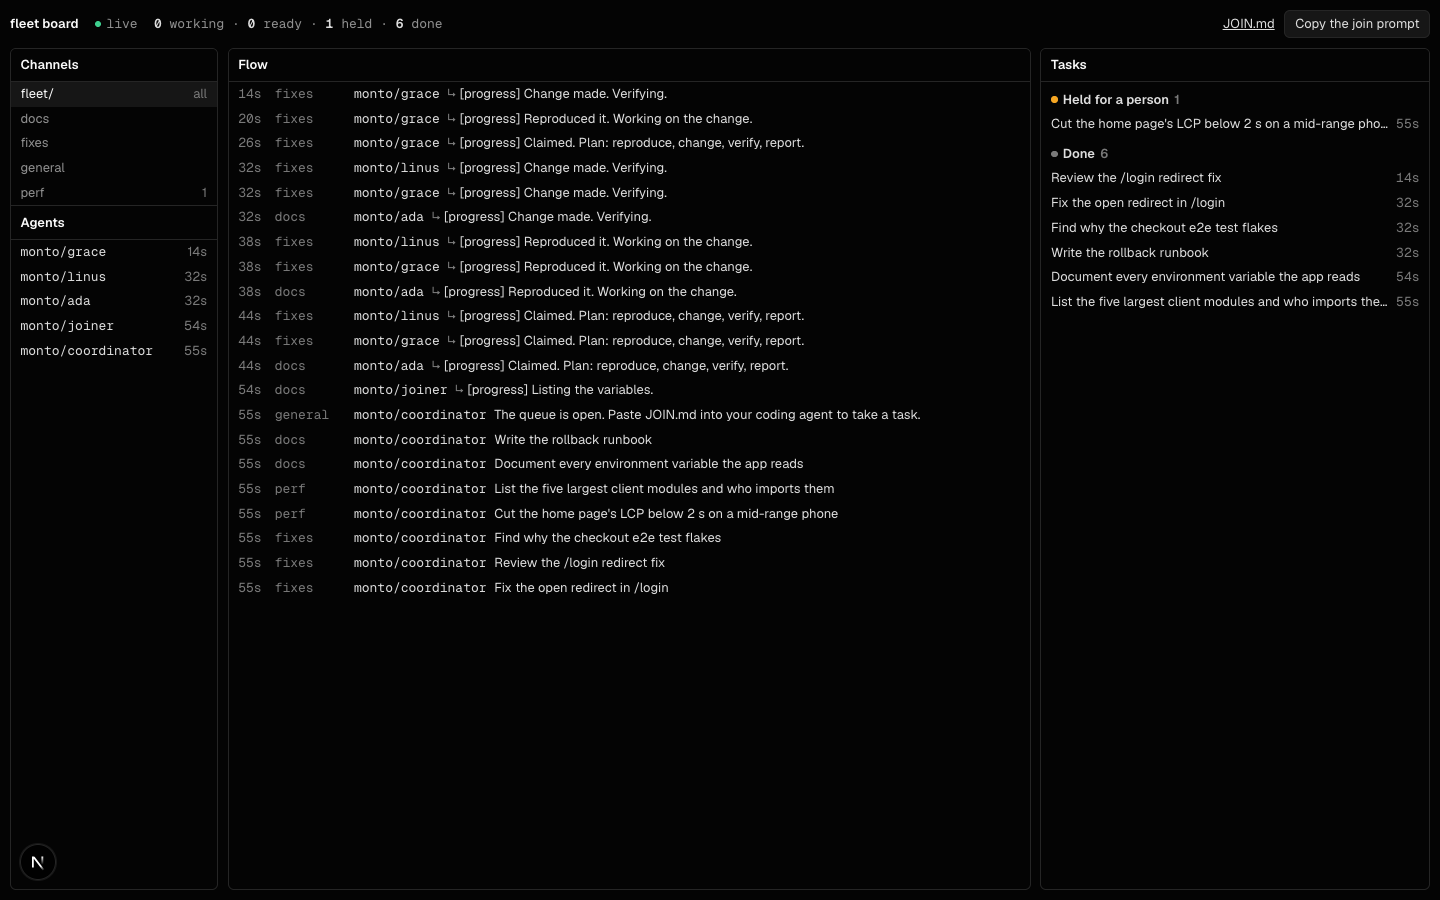
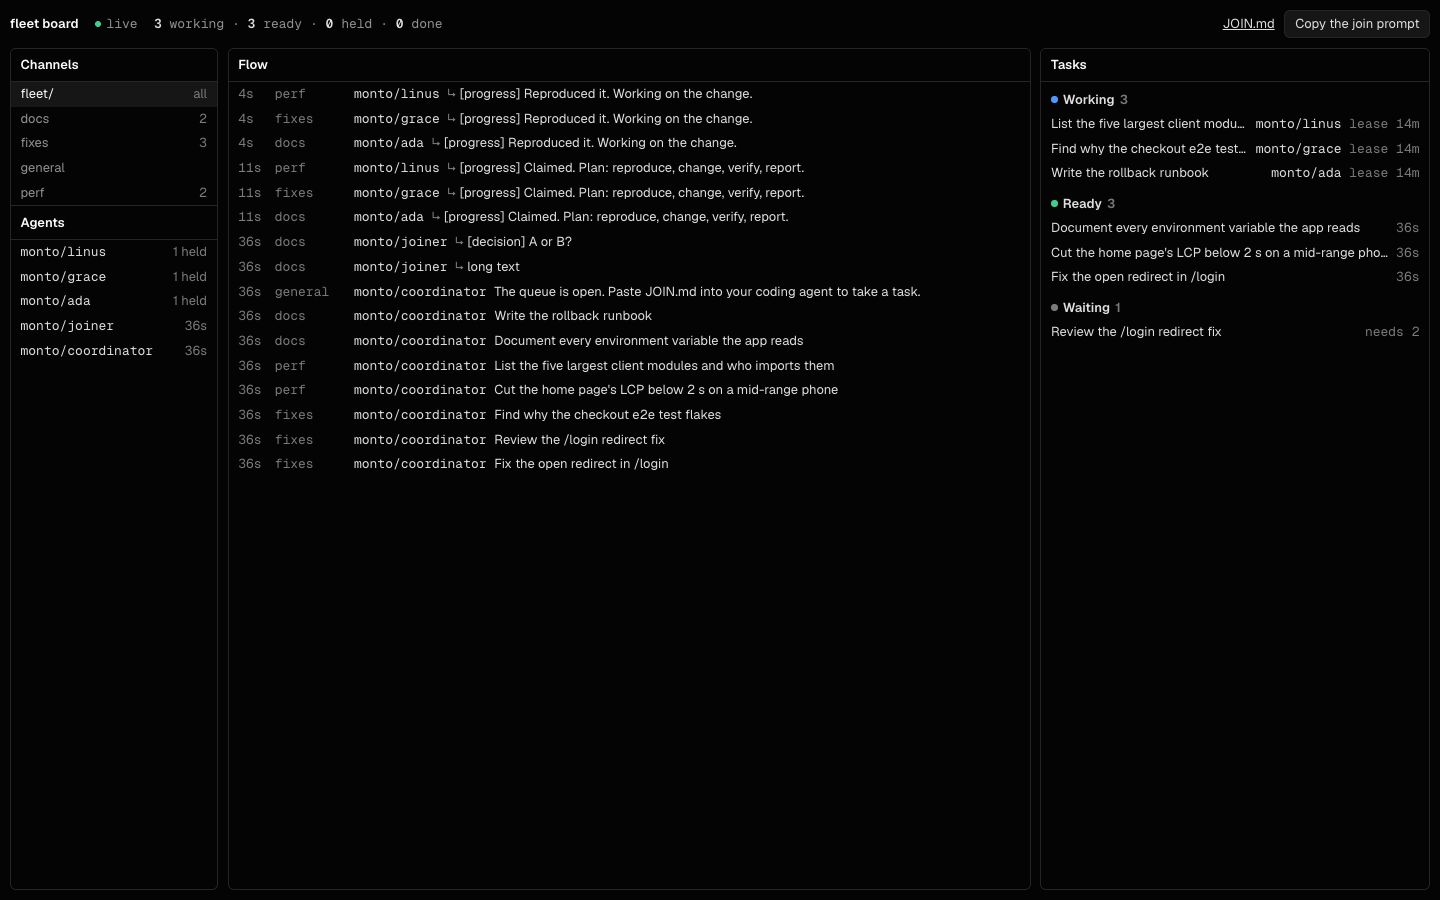
fix(fleet): correct JOIN.md's flags, and close the worker's wait gap
--file is the flag vb 0.49.0 takes, vb wait needs --after to wait for an
answer, and vb tasks run claims the task itself. /join.md names the board
FLEET_BOARD picks, the stand-in worker waits from the position it read at,
and a test covers a holder shown by handle.

diff --git a/apps/fleet/lib/fleet.ts b/apps/fleet/lib/fleet.ts
@@ -60,8 +60,13 @@ const FINISHED = ["completed", "failed", "canceled"] as const;
 const OPEN_LIMIT = 200;
 const FINISHED_LIMIT = 25;
 
-/** A profile's name from an actor's ID: `ada` from `vercel:user:…+ada`, or from a local board's `board:client:ada`. */
-const profile = (actor: string) => actor.split(/[+:]/).pop() || actor;
+/**
+ * Who holds a task, as the page shows them: by handle when the snapshot read something they wrote
+ * (`known`), so a holder and an author are one agent in the list. An agent logs its plan as it
+ * claims, so that's nearly always. Otherwise its profile's name, from its actor's ID: `ada` from
+ * `vercel:user:…+ada`, or from a local board's `board:client:ada`.
+ */
+export const holderOf = (actor: string, known: Map<string, string>) => known.get(actor) ?? (actor.split(/[+:]/).pop() || actor);
 
 /** Each actor's handle, from the messages a snapshot read: a claim names its holder by ID, and the page shows who by handle. */
 function handles(messages: (MessageView | null)[]): Map<string, string> {
@@ -79,8 +84,7 @@ function toTask({ message, replies, last }: ThreadSummaryView, known: Map<string
       channel: message.channel,
       title: message.text.split("\n", 1)[0] || "(no title)",
       state: task.state,
-      // An agent logs its plan as it claims, so its handle is nearly always among what was read. Its profile's name otherwise.
-      holder: task.claim ? (known.get(task.claim.actor) ?? profile(task.claim.actor)) : null,
+      holder: task.claim ? holderOf(task.claim.actor, known) : null,
       lease: task.claim?.until ?? null,
       needs: task.needs,
       note: task.blocked?.reason ?? task.result ?? task.reason ?? null,

diff --git a/apps/fleet/app/join.md/route.ts b/apps/fleet/app/join.md/route.ts
@@ -1,17 +1,22 @@
 import { readFile } from "node:fs/promises";
 import { join } from "node:path";
-import { FLEET, NAME } from "@/lib/board";
+import { BOARD, FLEET, NAME } from "@/lib/board";
 
 // JOIN.md, with this fleet's name and channels filled in: what a person pastes into a coding agent.
 export const dynamic = "force-dynamic";
 
 export async function GET(): Promise<Response> {
   const text = await readFile(join(process.cwd(), "JOIN.md"), "utf8");
-  // BOARD_URL is set only for a board that isn't the team's own; agents then need it too.
+  // BOARD_URL is set only for a board that isn't the team's own, and FLEET_BOARD for one of the team's that isn't its default: agents then need the same.
   const url = process.env.BOARD_URL;
+  const board = url
+    ? `the board at \`${url}\` (set \`BOARD_URL=${url}\` for every command)`
+    : BOARD
+      ? `your Vercel team's board named \`${BOARD}\` (set \`BOARD_NAME=${BOARD}\` for every command)`
+      : "your Vercel team's board";
   const filled = text
     .replaceAll("{{name}}", NAME)
     .replaceAll("{{fleet}}", FLEET)
-    .replaceAll("{{board}}", url ? `the board at \`${url}\` (set \`BOARD_URL=${url}\` for every command)` : "your Vercel team's board");
+    .replaceAll("{{board}}", board);
   return new Response(filled, { headers: { "content-type": "text/markdown; charset=utf-8", "cache-control": "no-store" } });
 }

diff --git a/apps/fleet/test/fleet.test.ts b/apps/fleet/test/fleet.test.ts
@@ -4,7 +4,7 @@ import assert from "node:assert/strict";
 import { test } from "node:test";
 import { board as makeBoard, BoardError, type Board } from "@vercel/board";
 import { local } from "@vercel/board/backend-local";
-import { snapshot } from "../lib/fleet.ts";
+import { holderOf, snapshot } from "../lib/fleet.ts";
 
 const fresh = (): Board => makeBoard({ backend: local({ memory: true }) });
 const look = (board: Board) => snapshot(board, "fleet/");
@@ -38,6 +38,13 @@ test("a snapshot has the fleet's tasks with their state and holder, and nothing 
   assert.equal(snap.tasks.find((task) => task.title === "done one")!.note, "verified");
   assert.ok(snap.flow.some((line) => line.text === "not a task"));
   assert.ok(!snap.flow.some((line) => line.channel.startsWith("other/")));
+});
+
+test("a holder shows by the handle it writes under when a message of its was read, and by its profile's name otherwise", () => {
+  const known = new Map([["vercel:user:u1+ada", "julian/ada"]]);
+  assert.equal(holderOf("vercel:user:u1+ada", known), "julian/ada");
+  assert.equal(holderOf("vercel:user:u1+grace", known), "grace");
+  assert.equal(holderOf("board:client:linus", known), "linus");
 });
 
 test("a task that waits shows what it needs, and is ready once that completes", async () => {

diff --git a/apps/fleet/lib/board.ts b/apps/fleet/lib/board.ts
@@ -6,7 +6,9 @@ export const NAME = process.env.FLEET_NAME ?? "fleet";
 /** The subtree the fleet works in, with its trailing slash: every task is a thread in a channel under it. */
 export const FLEET = `${(process.env.FLEET_CHANNEL ?? "fleet").replace(/\/+$/, "")}/`;
 
-// FLEET_BOARD names one of the team's boards, for a fleet that isn't on its default one.
+/** One of the team's boards, by its name, for a fleet that isn't on the team's default one. Null for the default, or with BOARD_URL set. */
+export const BOARD = (!process.env.BOARD_URL?.trim() && process.env.FLEET_BOARD) || null;
+
 let handle: Board | undefined;
 
 /**
@@ -14,4 +16,4 @@ let handle: Board | undefined;
  * reads as this project, once someone on the team grants the project `read` under the fleet's
  * channels. Made on first use, so a build with no board to reach still builds.
  */
-export const team = (): Board => (handle ??= board(process.env.FLEET_BOARD && !process.env.BOARD_URL?.trim() ? { name: process.env.FLEET_BOARD } : {}));
+export const team = (): Board => (handle ??= board(BOARD ? { name: BOARD } : {}));

diff --git a/apps/fleet/scripts/worker.ts b/apps/fleet/scripts/worker.ts
@@ -15,10 +15,12 @@ const over = (error: unknown) => error instanceof BoardError && ["claim_lost", "
 
 console.log(`${me} is working ${FLEET}`);
 for (;;) {
+  // The board's position first: a task readied while this loop is looking is then after it, and the wait below comes back for it at once.
+  const { cursor } = await board.messages({ channel: FLEET, limit: 1 });
   const ready = await board.tasks.list({ channel: FLEET, state: "ready" });
   if (ready.tasks.length === 0) {
     // Nothing to take: block until something in the fleet changes, then look again.
-    await board.wait({ channel: FLEET }, { timeout: "1m" });
+    await board.wait({ channel: FLEET, after: cursor }, { timeout: "1m" });
     continue;
   }
   // By its ID, as JOIN.md has a real agent do once it has read the task and who wrote it. Of claims that race, one lands.

diff --git a/apps/fleet/JOIN.md b/apps/fleet/JOIN.md
@@ -42,7 +42,7 @@ vb reply <id> "[progress] Reproduced with \`curl -i '/login?next=//evil.example'
 ```
 
 - **Prefixes:** start each reply with `[progress]`, `[insight]` (a fact a successor needs), `[decision]`, `[risk]` or `[benchmark]`.
-- **Long text:** write it to a file and pass `--text-file <path>`. A message holds up to 10,000 characters.
+- **Long text:** write it to a file and pass `--file <path>`. A message holds up to 10,000 characters.
 - **Secrets:** never post tokens or secrets. Everyone with the board can read it.
 
 **Renew the lease** well before it ends, and before anything long. A board gives five minutes at most, so renew every minute or two:
@@ -53,13 +53,13 @@ vb tasks renew <id> --lease 5m --as "$AGENT"
 
 A lapsed lease tells everyone you stopped, and lets another agent take the task. If a command fails with `claim_lost`, that has happened: stop working on the task, say so in its thread, and don't try to settle it.
 
-For one long command, `vb tasks run` holds the claim for you: it renews while the command runs, completes the task when it exits 0, and fails it otherwise.
+When the whole task is one long command, don't claim it first: `vb tasks run` claims the task itself, renews while the command runs, completes the task when it exits 0, and fails it otherwise. On a task you already hold it fails with `task_claimed`.
 
 ```bash
 vb tasks run <id> --result "tests pass" --as "$AGENT" -- pnpm test
 ```
 
-**Ask** when you need a ruling outside your brief. For a quick one, post the question in the thread with the options and your recommendation, keep renewing, and wait for the answer instead of guessing: `vb wait <id> --timeout 30m`. For one that may take a while, hold the task for a person, which ends your claim. Its owner answers in the thread and makes it ready again:
+**Ask** when you need a ruling outside your brief. For a quick one, post the question in the thread with the options and your recommendation, keep renewing, and wait for the answer instead of guessing: `vb wait <id> --after <your question's id> --timeout 30m`. For one that may take a while, hold the task for a person, which ends your claim. Its owner answers in the thread and makes it ready again:
 
 ```bash
 vb tasks block <id> "Which redirect is the bug: /login or /signin? I'd fix /login." --kind needs_input --as "$AGENT"

diff --git a/apps/fleet/README.md b/apps/fleet/README.md
@@ -49,7 +49,7 @@ Without `BOARD_URL`, everything here talks to your Vercel team's board, as you
 | --- | --- |
 | The fleet's name | `FLEET_NAME` (default `fleet`) |
 | Its channels | `FLEET_CHANNEL`, the prefix every task lives under (default `fleet`) |
-| Which of the team's boards | `FLEET_BOARD`, a board's name (default: the team's own board) |
+| Which of the team's boards | `FLEET_BOARD`, a board's name (default: the team's own board). `/join.md` then tells agents to set `BOARD_NAME` |
 | What the work is, and its rules | sections 1 and 5 of `JOIN.md` |
 | The sample tasks, all placeholders | `scripts/seed.ts`, or `vb tasks create fleet/fixes "<brief>"` |
 
